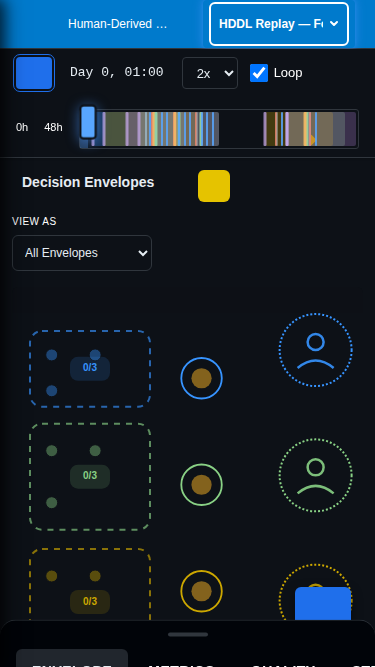
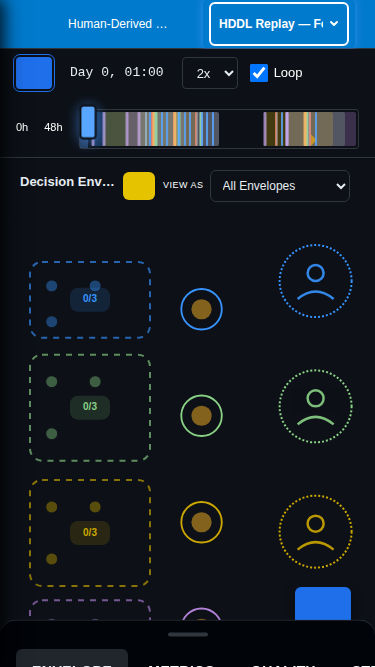
Fix View As dropdown to be on same visual row with header elements on mobile

diff --git a/hddl-sim/src/style-workspace.css b/hddl-sim/src/style-workspace.css
@@ -3119,30 +3119,41 @@ body.mobile-nav-open .mobile-nav-overlay {
     
     /* Map header row - Decision Envelopes header with View As dropdown */
     .page-container > div:first-child {
-        flex-direction: column !important;
-        align-items: flex-start !important;
-        gap: 12px !important;
+        display: flex !important;
+        flex-direction: row !important;
+        align-items: center !important;
+        gap: 8px !important;
         margin-bottom: 16px !important;
+        flex-wrap: wrap !important;
     }
     
     /* Left section with icon, title, and tour button */
     .page-container > div:first-child > div:first-child {
         display: flex !important;
         align-items: center !important;
-        gap: 10px !important;
-        width: 100% !important;
+        gap: 8px !important;
+        flex: 1 !important;
+        min-width: 0 !important;
     }
     
     /* Icon size */
     .page-container > div:first-child > div:first-child .codicon {
-        font-size: 18px !important;
+        font-size: 16px !important;
         flex-shrink: 0 !important;
     }
     
     /* Title container */
     .page-container > div:first-child > div:first-child > div {
-        flex: 1 !important;
+        flex: 0 1 auto !important;
         min-width: 0 !important;
+    }
+    
+    /* Title text */
+    .page-container > div:first-child > div:first-child > div h1 {
+        font-size: 13px !important;
+        white-space: nowrap !important;
+        overflow: hidden !important;
+        text-overflow: ellipsis !important;
     }
     
     /* Tour button container */
@@ -3152,32 +3163,35 @@ body.mobile-nav-open .mobile-nav-overlay {
     
     /* Tour button itself */
     #tour-button-container button {
-        padding: 6px 10px !important;
-        font-size: 12px !important;
-        min-height: 32px !important;
+        padding: 4px 8px !important;
+        font-size: 11px !important;
+        min-height: 28px !important;
         white-space: nowrap !important;
     }
     
-    /* View As section - full width on mobile */
+    /* View As section - compact on same row */
     .page-container > div:first-child > div:last-child {
-        width: 100% !important;
-        min-width: 100% !important;
-        max-width: 100% !important;
+        display: flex !important;
+        align-items: center !important;
+        gap: 6px !important;
+        flex-shrink: 0 !important;
     }
     
     /* View As label */
     .page-container > div:first-child > div:last-child > div:first-child {
-        font-size: 10px !important;
-        margin-bottom: 6px !important;
+        font-size: 9px !important;
+        margin-bottom: 0 !important;
+        white-space: nowrap !important;
+        color: var(--vscode-statusBar-foreground) !important;
     }
     
     /* View As dropdown */
     #steward-filter {
-        width: 100% !important;
-        padding: 8px 10px !important;
-        font-size: 13px !important;
-        min-height: 36px !important;
-        height: 36px !important;
+        min-width: 140px !important;
+        padding: 6px 8px !important;
+        font-size: 12px !important;
+        min-height: 32px !important;
+        height: 32px !important;
     }
     
     .page-header {
